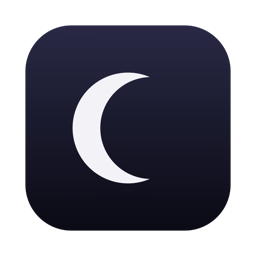
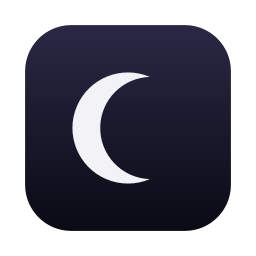
Make the README artwork reproducible and 88% smaller
The state figure existed only as a throwaway script, and both images had
been through sips, which left XMP metadata and a Retina-backed bitmap
behind: 432KB of PNG for two small figures.

tools/main.swift now draws them from the same crescent the app uses, so
the icon, the status item and the docs cannot drift apart. Regenerating
also fixed a tinting bug carried over from the scratch version — filling
with .sourceAtop after drawing onto an opaque background paints the whole
rectangle, not just the glyph, so the figure was four black squares.

docs/: 432664 -> 53682 bytes.

diff --git a/tools/main.swift b/tools/main.swift
@@ -1,11 +1,13 @@
 import AppKit
 
-// Generates AppIcon.icns from the same crescent used in the menu bar, so the
-// app icon and the status item are demonstrably the same mark.
+// Draws the project's artwork from the crescent in MenuBarIcon, so the app icon,
+// the status item, and the README figure cannot drift apart.
 //
-// usage: makeicon <output.icns>
+//   makeicon <out.icns>            the app icon
+//   makeicon --png <out.png>       the app icon as a flat PNG, for the README
+//   makeicon --states <out.png>    the README's menu bar state figure
 
-func renderIcon(size: CGFloat) -> NSBitmapImageRep {
+func renderAppIcon(size: CGFloat) -> NSBitmapImageRep {
     let rep = NSBitmapImageRep(
         bitmapDataPlanes: nil,
         pixelsWide: Int(size), pixelsHigh: Int(size),
@@ -17,52 +19,122 @@ func renderIcon(size: CGFloat) -> NSBitmapImageRep {
     NSGraphicsContext.saveGraphicsState()
     NSGraphicsContext.current = NSGraphicsContext(bitmapImageRep: rep)
 
-    // macOS icon geometry: the art sits inset inside the canvas with a
-    // continuous-curvature corner radius of ~22.4% of the art's width.
+    // macOS icon geometry: art inset inside the canvas, corner radius ~22.4%.
     let inset = size * 0.098
     let art = NSRect(x: inset, y: inset, width: size - inset * 2, height: size - inset * 2)
     let plate = NSBezierPath(roundedRect: art, xRadius: art.width * 0.224, yRadius: art.width * 0.224)
 
     // Yami — darkness. Deep indigo falling to near-black.
-    let gradient = NSGradient(
+    NSGradient(
         starting: NSColor(srgbRed: 0.16, green: 0.16, blue: 0.27, alpha: 1),
         ending: NSColor(srgbRed: 0.04, green: 0.04, blue: 0.08, alpha: 1)
-    )!
-    gradient.draw(in: plate, angle: -90)
+    )!.draw(in: plate, angle: -90)
 
     let moonWidth = art.width * 0.54
-    let moon = NSRect(
+    NSColor(srgbRed: 0.95, green: 0.95, blue: 0.97, alpha: 1).setFill()
+    MenuBarIcon.crescent(in: NSRect(
         x: art.midX - moonWidth / 2,
         y: art.midY - moonWidth / 2,
         width: moonWidth,
         height: moonWidth
-    )
-    NSColor(srgbRed: 0.95, green: 0.95, blue: 0.97, alpha: 1).setFill()
-    MenuBarIcon.crescent(in: moon).fill()
+    )).fill()
 
     NSGraphicsContext.restoreGraphicsState()
     return rep
 }
 
-let output = URL(fileURLWithPath: CommandLine.arguments[1])
-let iconset = URL(fileURLWithPath: NSTemporaryDirectory())
-    .appending(path: "Yami-\(UUID().uuidString).iconset")
-try! FileManager.default.createDirectory(at: iconset, withIntermediateDirectories: true)
+func writeAppIcon(to output: URL) {
+    let iconset = URL(fileURLWithPath: NSTemporaryDirectory())
+        .appending(path: "Yami-\(UUID().uuidString).iconset")
+    try! FileManager.default.createDirectory(at: iconset, withIntermediateDirectories: true)
 
-for base in [16, 32, 128, 256, 512] {
-    for scale in [1, 2] {
-        let pixels = base * scale
-        let suffix = scale == 1 ? "" : "@2x"
-        let data = renderIcon(size: CGFloat(pixels))
-            .representation(using: .png, properties: [:])!
-        try! data.write(to: iconset.appending(path: "icon_\(base)x\(base)\(suffix).png"))
+    for base in [16, 32, 128, 256, 512] {
+        for scale in [1, 2] {
+            let suffix = scale == 1 ? "" : "@2x"
+            let data = renderAppIcon(size: CGFloat(base * scale))
+                .representation(using: .png, properties: [:])!
+            try! data.write(to: iconset.appending(path: "icon_\(base)x\(base)\(suffix).png"))
+        }
     }
+
+    let iconutil = Process()
+    iconutil.executableURL = URL(fileURLWithPath: "/usr/bin/iconutil")
+    iconutil.arguments = ["-c", "icns", iconset.path, "-o", output.path]
+    try! iconutil.run()
+    iconutil.waitUntilExit()
+    try? FileManager.default.removeItem(at: iconset)
+    print(iconutil.terminationStatus == 0 ? "wrote \(output.path)" : "iconutil failed")
 }
 
-let iconutil = Process()
-iconutil.executableURL = URL(fileURLWithPath: "/usr/bin/iconutil")
-iconutil.arguments = ["-c", "icns", iconset.path, "-o", output.path]
-try! iconutil.run()
-iconutil.waitUntilExit()
-try? FileManager.default.removeItem(at: iconset)
-print(iconutil.terminationStatus == 0 ? "wrote \(output.path)" : "iconutil failed")
+/// Paints a template image in one colour. The tint must be composited inside
+/// the image's own transparent context — doing it after the image is drawn onto
+/// an opaque background makes `sourceAtop` fill the whole rectangle.
+func tinted(_ image: NSImage, _ color: NSColor) -> NSImage {
+    let out = NSImage(size: image.size)
+    out.lockFocus()
+    image.draw(at: .zero, from: .zero, operation: .sourceOver, fraction: 1)
+    color.setFill()
+    NSRect(origin: .zero, size: image.size).fill(using: .sourceAtop)
+    out.unlockFocus()
+    return out
+}
+
+/// The four menu bar states, on a light and a dark bar. Template images carry no
+/// colour of their own, so each is tinted the way the system would tint it.
+func writeStateFigure(to output: URL) {
+    let states: [(Bool, Bool)] = [(false, false), (true, false), (false, true), (true, true)]
+    // Rendered at 2x the width the README displays it at, so it stays crisp on
+    // a Retina screen.
+    let scale: CGFloat = 8
+    let cell = NSSize(width: 34 * scale, height: 24 * scale)
+    let size = NSSize(width: cell.width * CGFloat(states.count), height: cell.height * 2)
+
+    let rep = NSBitmapImageRep(
+        bitmapDataPlanes: nil,
+        pixelsWide: Int(size.width), pixelsHigh: Int(size.height),
+        bitsPerSample: 8, samplesPerPixel: 4,
+        hasAlpha: true, isPlanar: false,
+        colorSpaceName: .deviceRGB,
+        bytesPerRow: 0, bitsPerPixel: 0
+    )!
+    NSGraphicsContext.saveGraphicsState()
+    NSGraphicsContext.current = NSGraphicsContext(bitmapImageRep: rep)
+
+    for (row, background) in [NSColor(white: 0.16, alpha: 1), NSColor.white].enumerated() {
+        let tint: NSColor = row == 0 ? .white : .black
+        let y = CGFloat(row) * cell.height
+        background.setFill()
+        NSRect(x: 0, y: y, width: size.width, height: cell.height).fill()
+
+        for (column, state) in states.enumerated() {
+            let icon = tinted(MenuBarIcon.image(coreRunning: state.0, proxyOn: state.1), tint)
+            let box = NSRect(
+                x: CGFloat(column) * cell.width + (cell.width - icon.size.width * scale) / 2,
+                y: y + (cell.height - icon.size.height * scale) / 2,
+                width: icon.size.width * scale,
+                height: icon.size.height * scale
+            )
+            icon.draw(in: box, from: .zero, operation: .sourceOver, fraction: 1)
+        }
+    }
+    NSGraphicsContext.restoreGraphicsState()
+
+    let data = rep.representation(using: .png, properties: [.interlaced: false])!
+    try! data.write(to: output)
+    print("wrote \(output.path) (\(data.count) bytes)")
+}
+
+let arguments = Array(CommandLine.arguments.dropFirst())
+if arguments.first == "--states", arguments.count > 1 {
+    writeStateFigure(to: URL(fileURLWithPath: arguments[1]))
+} else if arguments.first == "--png", arguments.count > 1 {
+    // The README shows this at 96pt; 256 covers Retina with room to spare.
+    let data = renderAppIcon(size: 256).representation(using: .png, properties: [:])!
+    try! data.write(to: URL(fileURLWithPath: arguments[1]))
+    print("wrote \(arguments[1]) (\(data.count) bytes)")
+} else if let first = arguments.first {
+    writeAppIcon(to: URL(fileURLWithPath: first))
+} else {
+    print("usage: makeicon <out.icns> | makeicon --states <out.png>")
+    exit(1)
+}

diff --git a/README.md b/README.md
@@ -29,7 +29,7 @@ mihomo's own config, not in this UI.
 The menu bar mark carries both states independently — the core can run without
 the proxy, so a single dimmed→solid ramp would conflate them:
 
-<img src="docs/menubar-states.png" width="560" alt="Menu bar icon states">
+<img src="docs/menubar-states.png" width="544" alt="Menu bar icon states">
 
 *Left to right: both off, core running, proxy on, both on.* Dimmed means the core
 is stopped; the badge dot means the system proxy is on.
@@ -65,9 +65,17 @@ thing: `HelperInfo.clientRequirement` and `helperRequirement` in
 pin a team ID. That pin is the security boundary for a root daemon, so it cannot
 be derived at runtime — replace `AU534DT7GN` with your own team ID.
 
-`Resources/AppIcon.icns` is generated from the crescent in
-[`MenuBarIcon.swift`](Sources/Yami/MenuBarIcon.swift) on first build; delete it
-to regenerate after changing the mark.
+All the artwork is drawn from the crescent in
+[`MenuBarIcon.swift`](Sources/Yami/MenuBarIcon.swift), so the app icon, the
+status item and the figures above cannot drift apart. `Resources/AppIcon.icns`
+is generated on first build — delete it to regenerate after changing the mark.
+The README figures come from the same tool:
+
+```bash
+swiftc -O Sources/Yami/MenuBarIcon.swift tools/main.swift -o /tmp/makeicon
+/tmp/makeicon --png docs/icon.png
+/tmp/makeicon --states docs/menubar-states.png
+```
 
 ## How it works
 
